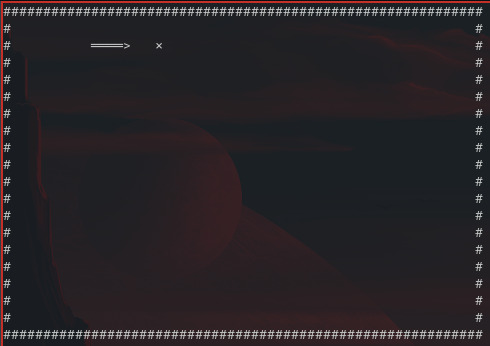
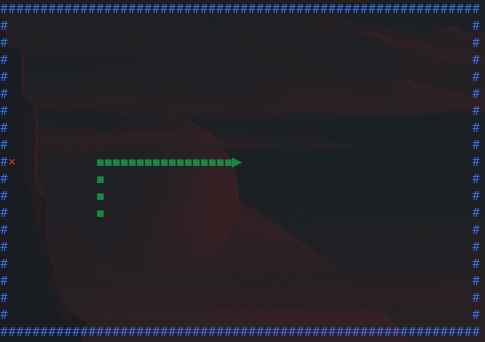
changed snake fixed bug

diff --git a/src/main.rs b/src/main.rs
@@ -62,7 +62,6 @@ impl<T: Write,F: Read> Game<T,F>{
         let mut key = [0];
         self.stdin.read(&mut key).unwrap();
         match key[0]{
-            b'q' => exit(0),
             b'w' | b'k' if self.snake.body[0].direction != Direction::Down
                 && self.snake.body[0].direction != Direction::Up=> self.take_direction(Direction::Up),
             b'a' | b'h' if self.snake.body[0].direction != Direction::Right
@@ -103,19 +102,19 @@ impl<T: Write,F: Read> Game<T,F>{
             if head==true {
                 match dir {
                     Direction::Up => {
-                        i.part = "^";
+                        i.part = "▲";
                         i.y -= 1;
                     },
                     Direction::Down => {
-                        i.part = "v";
+                        i.part = "▼";
                         i.y += 1;
                     },
                     Direction::Left => {
-                        i.part = "<";
+                        i.part = "◀";
                         i.x -= 1;
                     },
                     Direction::Right => {
-                        i.part = ">";
+                        i.part = "▶";
                         i.x += 1;
                     },
                 }
@@ -124,10 +123,11 @@ impl<T: Write,F: Read> Game<T,F>{
             }
             else {
                 match i.direction {
-                    Direction::Up => i.part = "║",
-                    Direction::Down => i.part = "║",
-                    Direction::Left => i.part = "═",
-                    Direction::Right => i.part = "═",
+                    Direction::Up => i.part = "▪",
+                    Direction::Down => i.part = "▪",
+                    Direction::Left => i.part = "▪",
+                    Direction::Right => i.part = "▪",
+//═║
                 }
             }
         }
@@ -142,22 +142,22 @@ impl<T: Write,F: Read> Game<T,F>{
         match tail.direction {
             Direction::Up => {
                 self.snake.body.push(BodyPart {
-                    x: tail.x, y: tail.y - 1, part: "║", direction: tail.direction
+                    x: tail.x, y: tail.y - 1, part: "▪", direction: tail.direction
                 });
             },
             Direction::Down => {
                 self.snake.body.push(BodyPart {
-                    x: tail.x, y: tail.y + 1, part: "║", direction: tail.direction
+                    x: tail.x, y: tail.y + 1, part: "▪", direction: tail.direction
                 });
             },
             Direction::Right => {
                 self.snake.body.push(BodyPart {
-                    x: tail.x - 1, y: tail.y, part: "═", direction: tail.direction
+                    x: tail.x - 1, y: tail.y, part: "▪", direction: tail.direction
                 });
             },
             Direction::Left => {
                 self.snake.body.push(BodyPart {
-                    x: tail.x + 1, y: tail.y, part: "═", direction: tail.direction
+                    x: tail.x + 1, y: tail.y, part: "▪", direction: tail.direction
                 });
             },
         }
@@ -213,8 +213,22 @@ impl<T: Write,F: Read> Game<T,F>{
         if self.snake.body[0].x == self.food.0 &&
             self.snake.body[0].y == self.food.1 {
                 self.food = food_gen();
+                loop {
+                    if self.validate_food() {break;}
+                }
                 self.grow_snake();
             }
+    }
+
+    fn validate_food(&mut self) -> bool {
+        for i in self.snake.body.iter() {
+            if i.x == self.food.0
+                && i.y == self.food.1 {
+                    self.food = food_gen();
+                    return false;
+                }
+        }
+        true
     }
 
    /**********************************************************************
@@ -223,6 +237,15 @@ impl<T: Write,F: Read> Game<T,F>{
     fn print_food(&mut self) {
         let food = "×";
         write!(self.stdout, "{}{}{}{}", cursor::Goto(self.food.0, self.food.1), color::Fg(color::Red), food, color::Fg(color::Reset)).unwrap();
+        self.stdout.flush().unwrap();
+    }
+
+    fn print_game_over(&mut self) {
+        write!(self.stdout,"{}-------------------------", cursor::Goto((60/2) -10, 20/2 - 2)).unwrap();
+        write!(self.stdout,"{}|       Game Over!      |", cursor::Goto((60/2) -10, 20/2 - 1)).unwrap();
+        write!(self.stdout,"{}|       Score: {}      |", cursor::Goto((60/2) -10, 20/2), self.score).unwrap();
+        write!(self.stdout,"{}|(r)etry          (q)uit|", cursor::Goto((60/2) -10, 20/2 + 1)).unwrap();
+        write!(self.stdout,"{}-------------------------", cursor::Goto((60/2) -10, 20/2 + 2)).unwrap();
         self.stdout.flush().unwrap();
     }
 
@@ -239,20 +262,15 @@ impl<T: Write,F: Read> Game<T,F>{
     }
 
     fn end_game(&mut self) {
-        write!(self.stdout,"{}-------------------------", cursor::Goto((60/2) -10, 20/2 - 3)).unwrap();
-        write!(self.stdout,"{}|       Game Over!      |", cursor::Goto((60/2) -10, 20/2 - 2)).unwrap();
-        write!(self.stdout,"{}|       Score: {}       |", cursor::Goto((60/2) -10, 20/2 - 1), self.score).unwrap();
-        write!(self.stdout,"{}|(r)etry          (q)uit|", cursor::Goto((60/2) -10, 20/2)).unwrap();
-        write!(self.stdout,"{}-------------------------", cursor::Goto((60/2) -10, 20/2 + 1)).unwrap();
-        self.stdout.flush().unwrap();
+        self.print_game_over();
         let mut stdin = stdin();
         let mut key = [0];
         stdin.read_exact(&mut key).unwrap();
         match key[0] {
             b'r' | b'R' => {
                 self.snake.body = vec![
-                    BodyPart{x: 60/2, y: 20/2, part: "<", direction: Direction::Left},
-                    BodyPart{x: 60/2 + 1, y: (20/2), part: "═", direction: Direction::Left}
+                    BodyPart{x: 60/2, y: 20/2, part: "◀", direction: Direction::Left},
+                    BodyPart{x: 60/2 + 1, y: (20/2), part: "▪", direction: Direction::Left}
                 ];
                 self.score = 0;
                 self.food = food_gen();
@@ -278,8 +296,8 @@ fn init() {
         stdin: stdin,
         snake: Snake {
             body: vec![
-                BodyPart{x: 60/2, y: 20/2, part: "<", direction: Direction::Left},
-                BodyPart{x: 60/2 + 1, y: (20/2), part: "═", direction: Direction::Left}
+                BodyPart{x: 60/2, y: 20/2, part: "◀", direction: Direction::Left},
+                BodyPart{x: 60/2 + 1, y: (20/2), part: "▪", direction: Direction::Left}
             ]
         },
         food: food_gen(),

diff --git a/README.md b/README.md
@@ -14,4 +14,3 @@ Simply `cargo run` to run this or `cargo install --path .` to install it.
 
 ### Keybindings
 `w,a,s,d` like any game ever or `h,j,k,l` for vim users.
-`q` to quit at any time.
